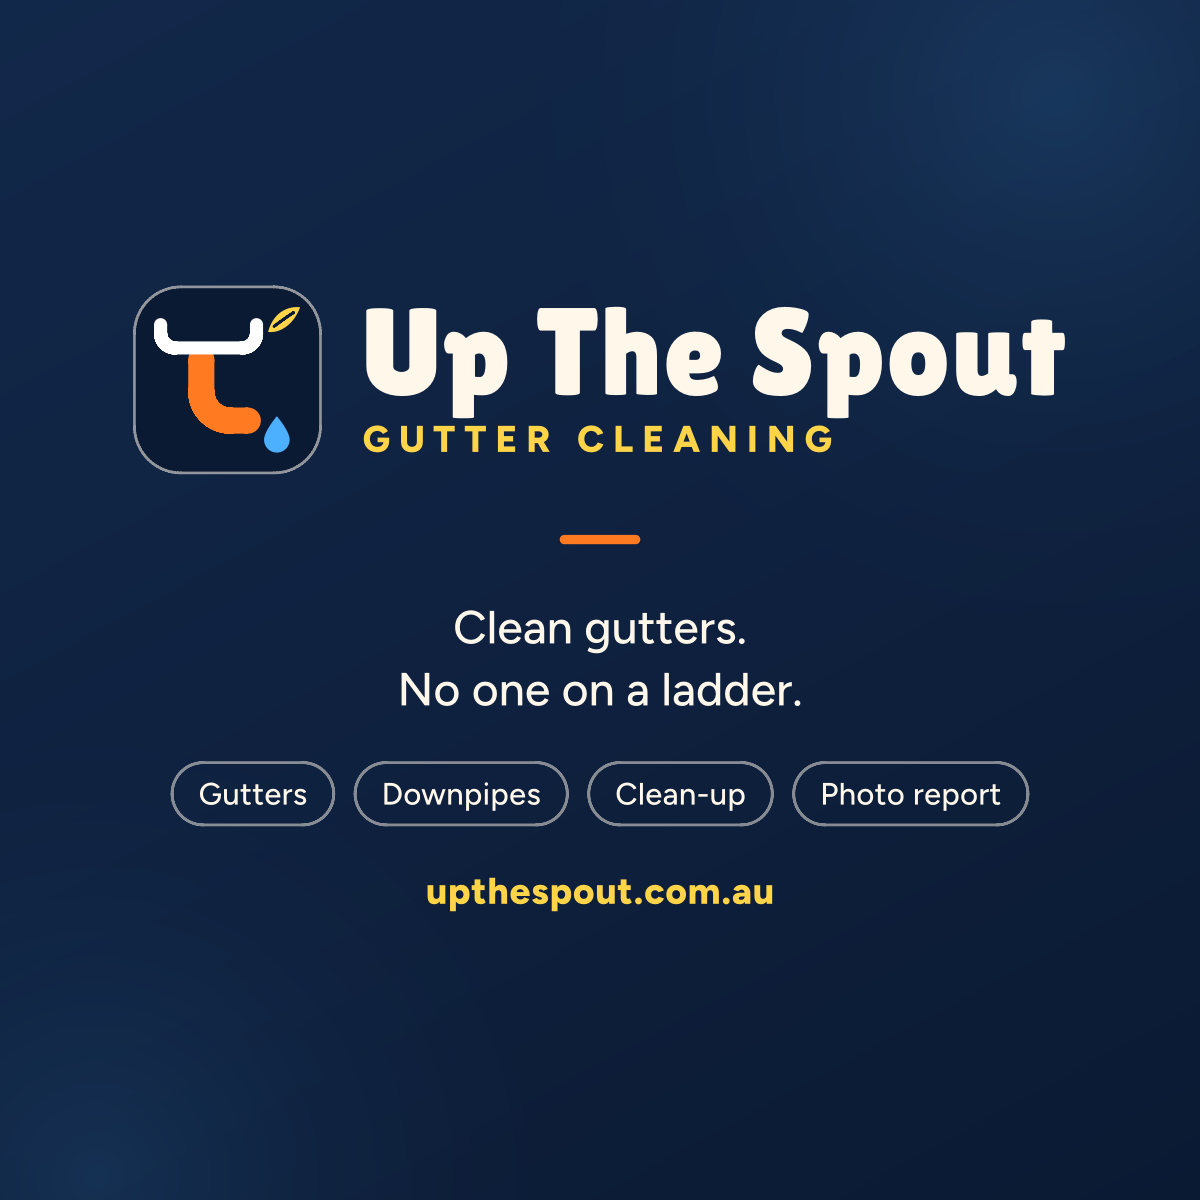
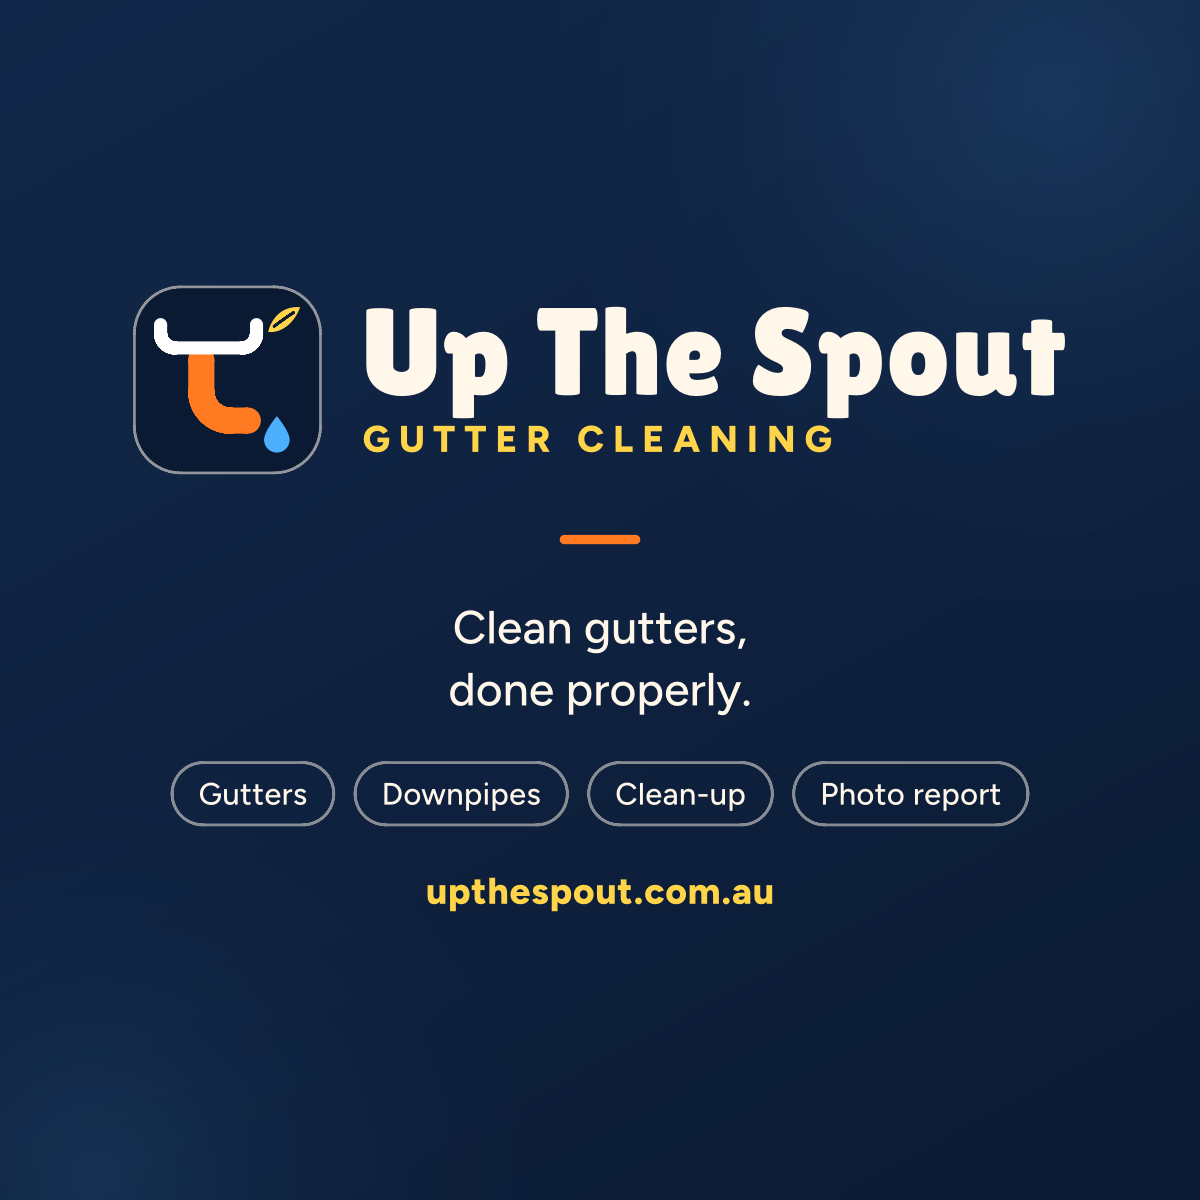
Drop "No one on a ladder" from the headline and copy
The home page headline, social images and business card now read
"Clean gutters, done properly." The phrase is also gone from the
gutter-cleaning service page and three suburb pages.

Changed region(s): [[0.3083, 0.555, 0.6783, 0.6167]]

diff --git a/templates/pages/home.html b/templates/pages/home.html
@@ -61,7 +61,7 @@
             <div class="hero-grid">
                 <div class="hero-content">
                     <p class="hero-overline">Gutter &amp; downpipe cleaning &middot; Melbourne's north-east</p>
-                    <h1>Clean gutters. <span class="hl">No one on a ladder.</span></h1>
+                    <h1>Clean gutters, <span class="hl">done properly.</span></h1>
                     <p class="hero-desc">
                         We use professional gutter cleaning equipment, so no one has to risk their life on a
                         ladder. Gutters cleared for homes across Melbourne's north-east, at

diff --git a/templates/pages/service.html b/templates/pages/service.html
@@ -55,7 +55,7 @@
                         <div class="step">
                             <div class="step-num">02</div>
                             <h3>The clean</h3>
-                            <p>Every gutter cleared, with no one on a ladder. You don't need to be home.</p>
+                            <p>Every gutter cleared and the mess taken away. You don't need to be home.</p>
                         </div>
                         <div class="step">
                             <div class="step-num">03</div>

diff --git a/cmd/server/suburbs.go b/cmd/server/suburbs.go
@@ -142,7 +142,7 @@ var suburbList = []Suburb{
 		Photo:    &Photo{Artist: "Nick carson at English Wikipedia", Licence: "Public domain", LicenceURL: "", Source: "https://commons.wikimedia.org/wiki/File:Yarra_River_at_Warrandyte.jpg"}},
 	{Name: "Warrandyte South", Slug: "warrandyte-south", Postcode: "3134", LGA: "Manningham", DriveMin: 8,
 		Blurb:    "Warrandyte South is the small, leafy pocket between Ringwood–Warrandyte Road, Anzac Road, Jumping Creek and Old Warrandyte Road, inside Manningham's green wedge. Most of the green wedge is designated bushfire prone, and the bush blocks here put gum leaves and bark into gutters all year. A clean in early spring and another in May after the autumn drop suits most homes here.",
-		MetaDesc: "Gutter cleaning in Warrandyte South 3134 for bush blocks: gutters cleared with no one on a ladder, fixed prices. Book online."},
+		MetaDesc: "Gutter cleaning in Warrandyte South 3134 for bush blocks: gutters cleared, debris taken away, fixed prices. Book online."},
 	{Name: "Park Orchards", Slug: "park-orchards", Postcode: "3114", LGA: "Manningham", DriveMin: 10,
 		Blurb:    "Park Orchards started as a 1920s country club estate, and many of the pines planted during the Depression are still standing. Pine needles mat together in gutters and hold water, and with gums around The 100 Acres bushland and large parts of the suburb in the Bushfire Management Overlay, gutters here need regular attention. It's about ten minutes from our base in Warrandyte.",
 		MetaDesc: "Pine needles and gum leaves cleared from gutters in Park Orchards 3114. Fixed prices from $219, mess taken away, photo report. Book online.",
@@ -184,12 +184,12 @@ var suburbList = []Suburb{
 	// ── Maroondah ──
 	{Name: "Ringwood North", Slug: "ringwood-north", Postcode: "3134", LGA: "Maroondah", DriveMin: 10,
 		Blurb:    "Ringwood North is hilly, especially around Loughnan's Hill and Glenvale Road, and it sits on the Warrandyte side of Ringwood. A bushfire burnt between Warrandyte and Ringwood in January 1913, and parts of Maroondah are still designated bushfire prone. On sloping blocks the high side of the roof is hard to see from the ground, so blocked gutters there often go unnoticed until they overflow.",
-		MetaDesc: "Gutter cleaning in Ringwood North 3134 on sloping blocks. Fixed prices from $219, no one on a ladder, dated photo report. Book online.",
+		MetaDesc: "Gutter cleaning in Ringwood North 3134 on sloping blocks. Fixed prices from $219, dated photo report, mess taken away. Book online.",
 		Photo:    &Photo{Artist: "Philip Mallis", Licence: "CC BY-SA 2.0", LicenceURL: "https://creativecommons.org/licenses/by-sa/2.0", Source: "https://commons.wikimedia.org/wiki/File:Maroondah_Highway,_North_Ringwood.jpg"}},
 	{Name: "Warranwood", Slug: "warranwood", Postcode: "3134", LGA: "Maroondah", DriveMin: 12,
 		Blurb:    "Warranwood takes its name from Warrandyte South and Ringwood North, and it was still mostly bushland in the early 1970s. Warranwood Reserve keeps 11 hectares of native bush along Jumping Creek, and plenty of homes nearby sit under tall trees. That means a steady fall of leaves and bark into gutters, so a spring clean before summer is the minimum we'd suggest.",
 		MetaDesc: "Gutter cleaning in Warranwood 3134, close to Warrandyte. Fixed prices from $219, no ladders, debris taken away. Book online."},
 	{Name: "Croydon Hills", Slug: "croydon-hills", Postcode: "3136", LGA: "Maroondah", DriveMin: 15,
-		Blurb:    "Croydon Hills was farmland and orchards until it was developed in the 1980s, mostly as single-storey brick veneer homes on generous blocks. Gardens planted then have had 40 years to grow, and reserves like Candlebark Walk and Narr-Maen Reserve run between the streets. A single-storey home is a fixed $289, with no one on a ladder and everything taken away.",
+		Blurb:    "Croydon Hills was farmland and orchards until it was developed in the 1980s, mostly as single-storey brick veneer homes on generous blocks. Gardens planted then have had 40 years to grow, and reserves like Candlebark Walk and Narr-Maen Reserve run between the streets. A single-storey home is a fixed $289, with everything bagged and taken away.",
 		MetaDesc: "Croydon Hills gutter cleaning: $289 for a single-storey home, no ladders, debris taken away, with a photo report. Book online."},
 }

diff --git a/tools/genassets/main.go b/tools/genassets/main.go
@@ -59,7 +59,7 @@ const (
 	domain   = "upthespout.com.au"
 	wordmark = "Up The Spout"
 	subline  = "GUTTER CLEANING"
-	pitch    = "Clean gutters. No one on a ladder."
+	pitch    = "Clean gutters, done properly."
 	areaLine = "Melbourne's north-east  ·  Fixed prices  ·  Book online"
 )
 
@@ -1143,10 +1143,10 @@ func brandPlate(img *image.RGBA, scale float64, safeW, safeH float64) {
 
 	roundRect(img, cx-s(26), at(ruleY), cx+s(26), at(ruleY)+s(6), s(3), tangerine)
 
-	// The pitch, one sentence per line: one line is wider than a square crop allows.
+	// The pitch, split at its comma: one line is wider than a square crop allows.
 	p := style{sansMed, s(30), 0}
-	line1, line2, _ := strings.Cut(pitch, ". ")
-	line1 += "."
+	line1, line2, _ := strings.Cut(pitch, ", ")
+	line1 += ","
 	mustFit(math.Max(p.width(line1), p.width(line2)), safeW, "pitch")
 	p.drawC(img, line1, cx, at(pitchY), cream)
 	p.drawC(img, line2, cx, at(pitch2Y), cream)

diff --git a/tools/bizcard/main.go b/tools/bizcard/main.go
@@ -44,7 +44,7 @@ const (
 // Fixed card copy. Keep it to what the business can back up: no "fully
 // insured", no "since 20xx", no ratings.
 const (
-	tagline  = "Clean gutters. No one on a ladder."
+	tagline  = "Clean gutters, done properly."
 	services = "Gutters · Downpipes · Clean-up · Photo report"
 	area     = "Melbourne's north-east · Fixed prices · Book online"
 )
